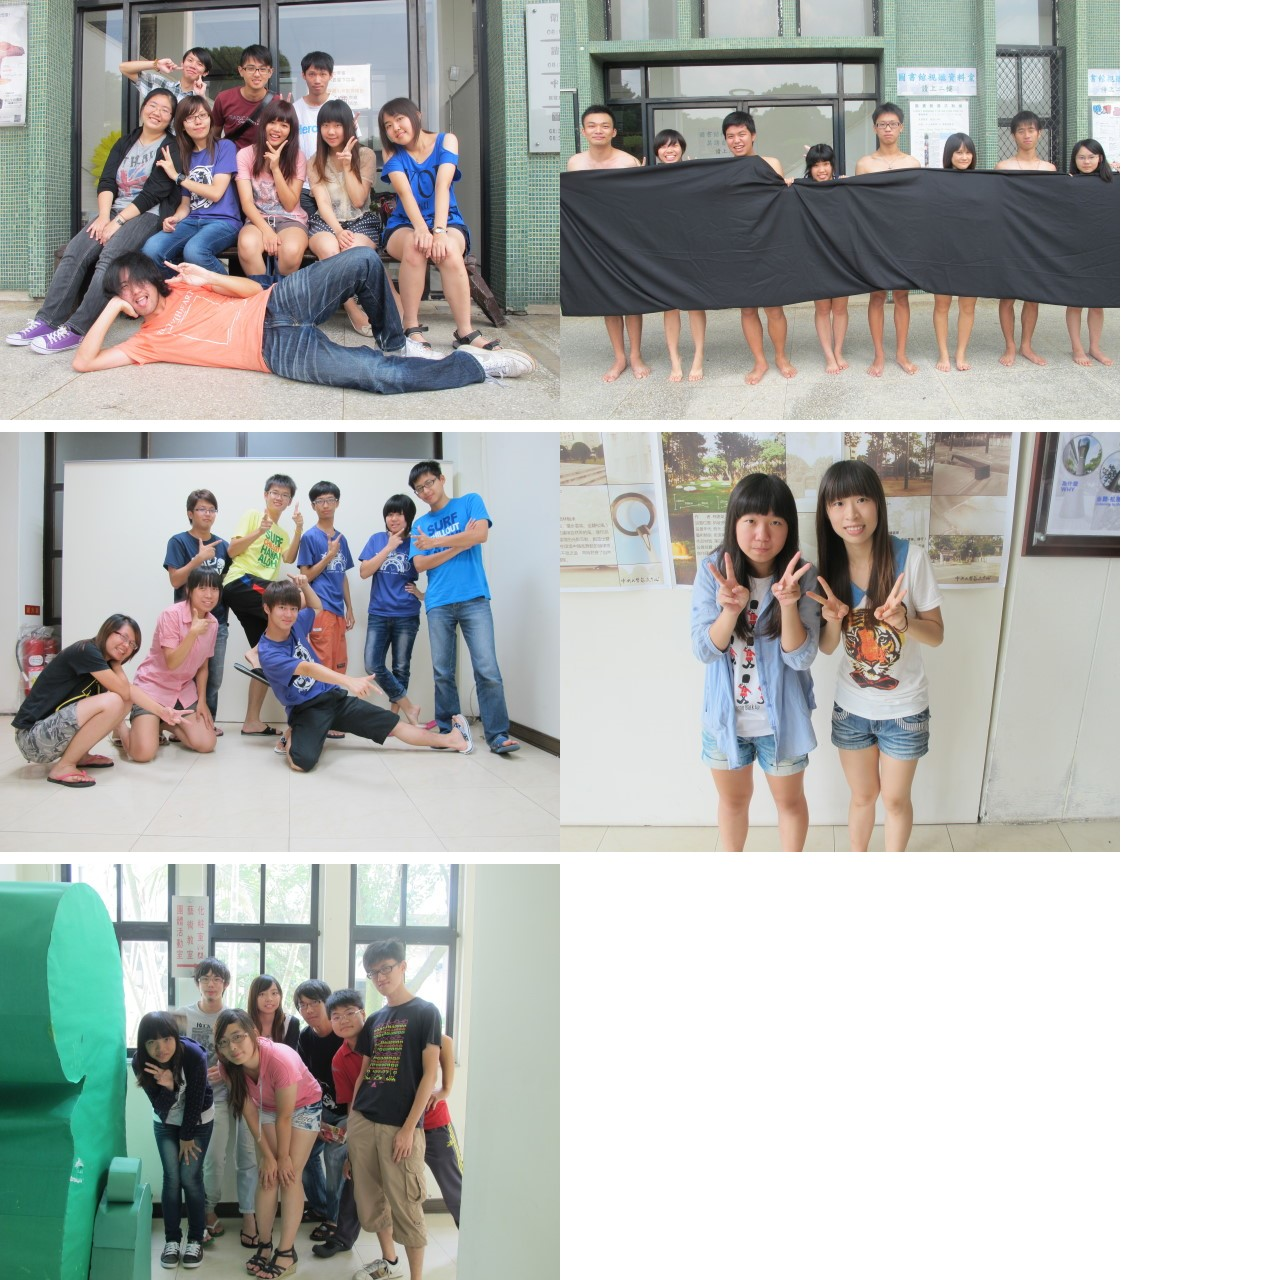
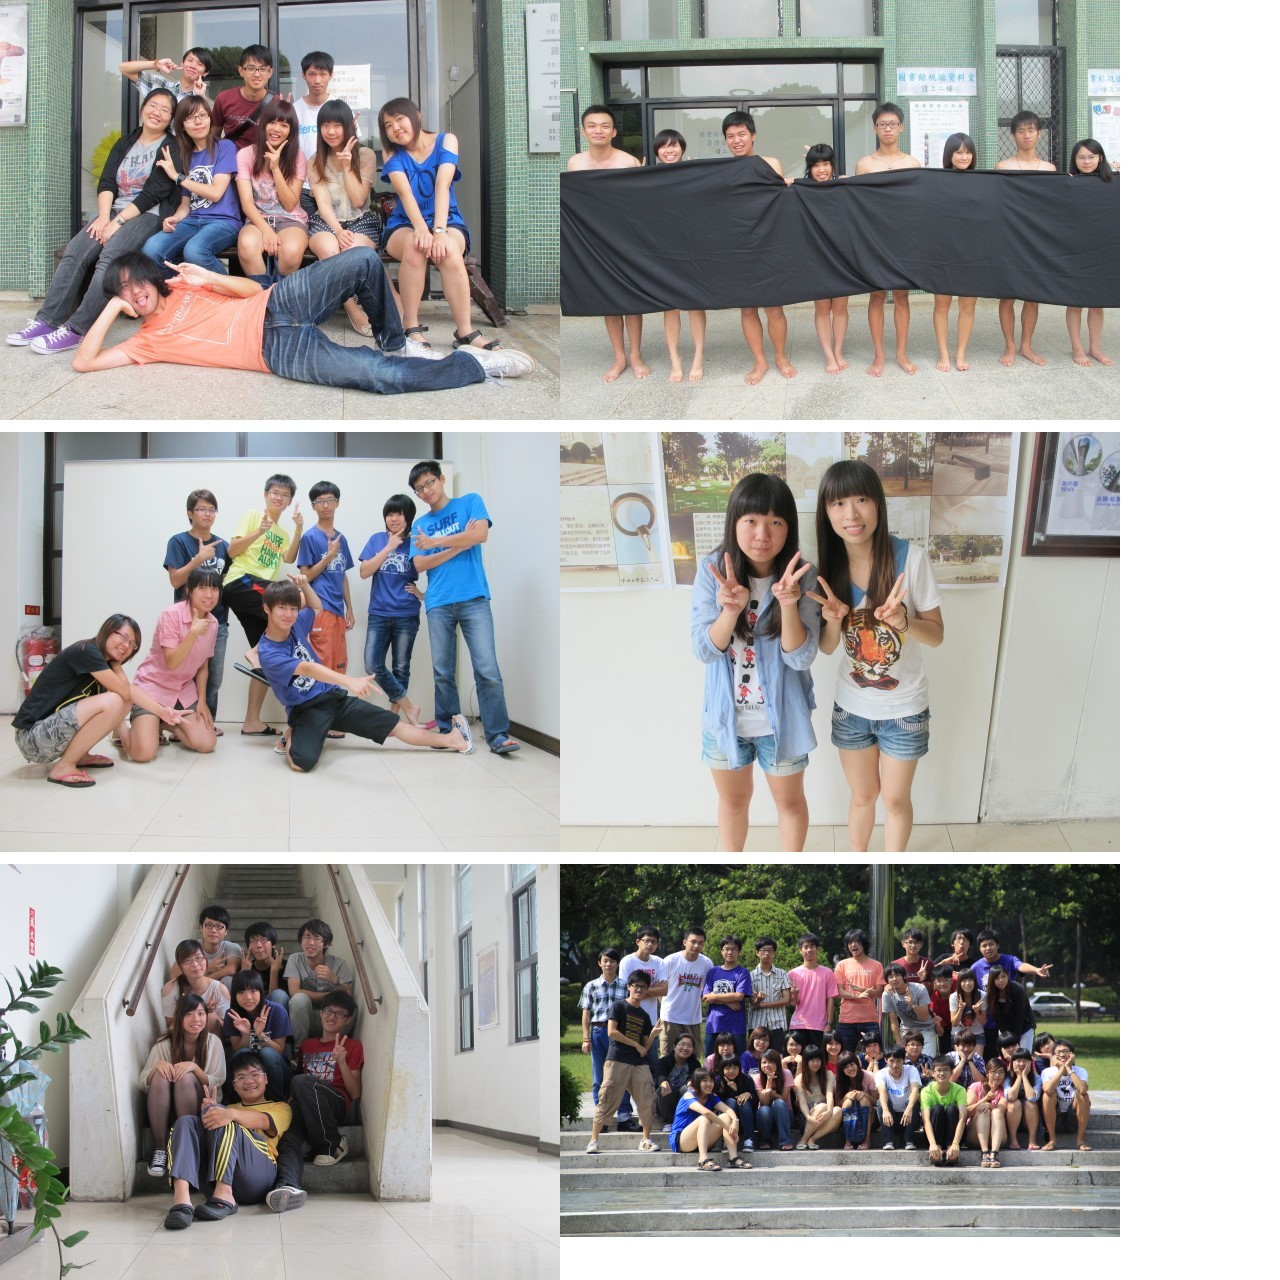
about us updated.

Changed region(s): [[0.0, 0.6562, 0.875, 1.0]]

diff --git a/statics/scripts/about.js b/statics/scripts/about.js
@@ -5,7 +5,7 @@
         var options = $.extend({
             aboutId:                         'about',
             titleClass:                      'title',
-            introdutionBlock:                'itr-block',
+            introdutionBlock:                'itrodution-block',
             introdutionPicture:              'about-picture',
             photoUl:                         'photo-ul',
             introduceId:                     'introdution',
@@ -16,8 +16,8 @@
             tagTxtClass:                     'tag-txt',
             title1Class:                     'title1',
             title2Class:                     'title2',
-            picBarSpeed:                     1000,
-            picAutoSpeed:                    6000,
+            PictureBarSpeed:                     1000,
+            PictureAutoSpeed:                    6000,
             tagBarSpeed:                     30000
         }, options);
         var photoIndex = 0;
@@ -43,22 +43,25 @@
             block1Inf.each(function(){
                 $(this).hide();
             });
-            block1Inf.eq(tagbarIndex).show();
-            tagbar.eq(tagbarIndex).show();
-            tagbarPerson.each(function(){
-                $(this).hide();
-            });
-            for (var p = 0; p < 9; p++)
+            if ( tagbarIndex != 6 )
             {
-                tagbarPerson.eq(tagbarIndex * 9 + p).show();
-                if ( tagbarIndex == 4 && p == 1 )
+                block1Inf.eq(tagbarIndex).show();
+                tagbarPerson.each(function(){
+                    $(this).hide();
+                });
+                for (var p = 0; p < 9; p++)
                 {
-                    break;
+                    tagbarPerson.eq(tagbarIndex * 9 + p).show();
+                    if ( tagbarIndex == 4 && p == 1 )
+                    {
+                        break;
+                    }
                 }
             }
+            tagbar.eq(tagbarIndex).show();
         };
         var blocks = [$('#' + options.aboutId + ' .block1'), $('#' + options.aboutId + ' .block2')];
-        var itrPic = $('#' + options.aboutId + ' .' + options.introdutionPicture);
+        var itrodutionPicture = $('#' + options.aboutId + ' .' + options.introdutionPicture);
         var picture = $('<div></div>')
             .css({
                 borderRadius: 10,
@@ -71,20 +74,20 @@
                 display.show().stop().animate({
                     height: 50,
                     opacity: 1
-                }, options.picBarSpeed);
+                }, options.PictureBarSpeed);
             })
             .mouseleave(function()
             {
                 display.stop().animate({
                     height: 0,
                     opacity: 0
-                }, options.picBarSpeed);
+                }, options.PictureBarSpeed);
             })
-            .appendTo(itrPic);
+            .appendTo(itrodutionPicture);
         var display = $('<div></div>').addClass('about-display').hide().appendTo(picture);
         var photoBar = $('<div></div>').addClass('photo-bar').appendTo(display);
-        var itr = $('#' + options.aboutId + ' .' + options.introdutionBlock).appendTo(blocks[0]);
-        var block1Pic = $('<div></div>').addClass('about-block1Pic').appendTo(blocks[1]);
+        var itrodution = $('#' + options.aboutId + ' .' + options.introdutionBlock).appendTo(blocks[0]);
+        var block1Picture = $('<div></div>').addClass('about-block1Picture').appendTo(blocks[1]);
         var block1Tag = $('#' + options.aboutId + ' .' + options.tagClass).appendTo(blocks[1]);
         var block1Txt = $('#' + options.aboutId + ' .' + options.tagTxtClass).appendTo(blocks[1]);
         var block1Inf = $('#' + options.aboutId + ' .' + options.block1InfClass);
@@ -100,12 +103,16 @@
         {
             $(this).addClass('about-small-' + index ).mouseenter(function()
             {
-                $(this).css({
-                    cursor: 'pointer'
-                })
+                if ( index != 0 )
+                {
+                    $(this).css({
+                        cursor: 'pointer'
+                    })
+                }
             })
             .click(function()
             {
+                if ( index == 0 ) return false;
                 tagBool = false;
                 for ( var i = 0; i < 5; i++)
                 {
@@ -114,7 +121,7 @@
                 tagbarIndex = index - 1;
                 jumpTo();
             })
-            .appendTo(block1Pic);
+            .appendTo(block1Picture);
         });
         tagbarPerson.each(function(){
             $(this).css({
@@ -156,12 +163,12 @@
                 photoIndex = 0;
             }
             picture.css('background-image', 'url(\'' + photoA.eq(photoIndex).attr('href') + '\')');
-        },options.picAutoSpeed);
+        },options.PictureAutoSpeed);
         setInterval(function()
         {
             if ( tagBool )
             {
-                if ( tagbarIndex < 4 )
+                if ( tagbarIndex < 5 )
                 {
                     tagbarIndex++;
                 }

diff --git a/statics/styles/style.css b/statics/styles/style.css
@@ -3078,12 +3078,13 @@ button.news-button
 #about .tag-bar1,
 #about .tag-bar2,
 #about .tag-bar3,
-#about .tag-bar4
+#about .tag-bar4,
+#about .tag-bar5
 {
     background: url('../about/photo.jpg') no-repeat;
 }
 
-#about .itr-block
+#about .itrodution-block
 {
     padding-left: 15px;
     padding-bottom: 10px;
@@ -3180,7 +3181,7 @@ button.news-button
     overflow: hidden;
 }
 
-#about .about-block1Pic
+#about .about-block1Picture
 {
     left: 25px;
     height: 280px;
@@ -3240,7 +3241,6 @@ button.news-button
 
 #about .about-photos
 {
-    border-radius: 10px;
     height: 40px;
     float: left;
     margin: 5px;
@@ -3311,6 +3311,14 @@ button.news-button
     width: 122px;
 }
 
+#about .about-small-6
+{
+    top: 8px;
+    left: 198px;
+    height: 113px;
+    width: 196px;
+}
+
 #about .hidden
 {
     display: none;
@@ -3361,6 +3369,12 @@ button.news-button
 #about .tag-bar4
 {
     background-position: -560px -432px;
+    display: none;
+}
+
+#about .tag-bar5
+{
+    background-position: -560px -864px;
     display: none;
 }
 

diff --git a/application/views/about/index.php b/application/views/about/index.php
@@ -1,6 +1,6 @@
 <div class="title1"></div>
 <div class="block1">
-    <div class="itr-block">
+    <div class="itrodution-block">
         <div class="about-picture"></div>
         <p>嗨！各位新生你們好！求學的新階段總是令人興奮，特別是從高中解脫的你們，對於新生活總是既期待又怕受傷害。身為學長姐的我們，曾經也走過這段，心情也正是如此，像個無頭蒼蠅毫無目的，正是聽到你們的呼叫，化身為「大一生活知訊網」，成為你們的＂校園網路導覽員＂！</p>
         <p>一年又一年的經驗傳承及追求創新，知訊網的進步、所有的付出，都是為了讓新鮮人，帶著期待、愉快的心情來迎接大學生活，並能夠對校園周遭的環境及資源有初步的認識，甚至是提早認識新朋友！有關宿舍、生活、註冊....所有的一切，都可以透過知訊網來得知。</p>
@@ -21,6 +21,7 @@
 </div>
 <div class="title2"></div>
 <div class="block2">
+    <div class="animation"></div>
     <div class="animation"></div>
     <div class="animation"></div>
     <div class="animation"></div>
@@ -48,21 +49,21 @@
             <div class="person" name="李韋成" grade="資工三" left="256px" top="145px" width="50px" height="50px"></div>
             <div class="person" name="林志信" grade="資工二" left="250px" top="37px" width="50px" height="50px"></div>
             <div class="person" name="黃熙程" grade="資工二" left="403px" top="24px" width="50px" height="50px"></div>
-            <div class="person" name="陳薏如" grade="資工三" left="178px" top="127px" width="50px" height="50px"></div>
+            <div class="person" name="陳薏如" grade="資工三" left="178px" top="132px" width="50px" height="50px"></div>
             <div class="person" name="羅雨晴" grade="資工二" left="372px" top="57px" width="50px" height="50px"></div>
             <div class="person" name="梁郁珮" grade="資工二" left="92px" top="175px" width="50px" height="50px"></div>
             <div class="person"></div>
         </li>
         <li>
             <div class="tag-image"></div>
-            <div class="person" name="賀靖雅" grade="資管三" left="206px" top="138px" width="62px" height="62px"></div>
-            <div class="person" name="蘇致維" grade="資工三" left="354px" top="71px" width="58px" height="58px"></div>
-            <div class="person" name="鐘育東" grade="資工二" left="183px" top="88px" width="58px" height="58px"></div>
-            <div class="person" name="賴韋辰" grade="資工二" left="316px" top="117px" width="58px" height="58px"></div>
-            <div class="person" name="吳易璁" grade="資工二" left="287px" top="110px" width="50px" height="50px"></div>
-            <div class="person" name="王禹軒" grade="資工二" left="" top="" width="" height=""></div>
-            <div class="person" name="林雅淇" grade="資工二" left="238px" top="102px" width="50px" height="50px"></div>
-            <div class="person" name="許庭瑜" grade="資工二" left="129px" top="142px" width="60px" height="60px"></div>
+            <div class="person" name="賀靖雅" grade="資管三" left="164px" top="69px" width="54px" height="54px"></div>
+            <div class="person" name="蘇致維" grade="資工三" left="306px" top="122px" width="54px" height="54px"></div>
+            <div class="person" name="鐘育東" grade="資工二" left="287px" top="49px" width="54px" height="54px"></div>
+            <div class="person" name="賴韋辰" grade="資工二" left="216px" top="181px" width="62px" height="62px"></div>
+            <div class="person" name="吳易璁" grade="資工二" left="234px" top="52px" width="50px" height="50px"></div>
+            <div class="person" name="王禹軒" grade="資工二" left="188px" top="35px" width="50px" height="50px"></div>
+            <div class="person" name="林雅淇" grade="資工二" left="163px" top="125px" width="51px" height="51px"></div>
+            <div class="person" name="許庭瑜" grade="資工二" left="219px" top="98px" width="57px" height="57px"></div>
             <div class="person"></div>
         </li>
         <li>
@@ -81,6 +82,9 @@
             <div class="tag-image"></div>
             <div class="person" name="黃筱萍" grade="資工三" left="152px" top="37px" width="95px" height="95px"></div>
             <div class="person" name="盧婉芳" grade="資工三" left="244px" top="24px" width="95px" height="95px"></div>
+        </li>
+        <li>
+            <div class="tag-image"></div>
         </li>
     </ul>
     <div class="tag-txt"></div>
